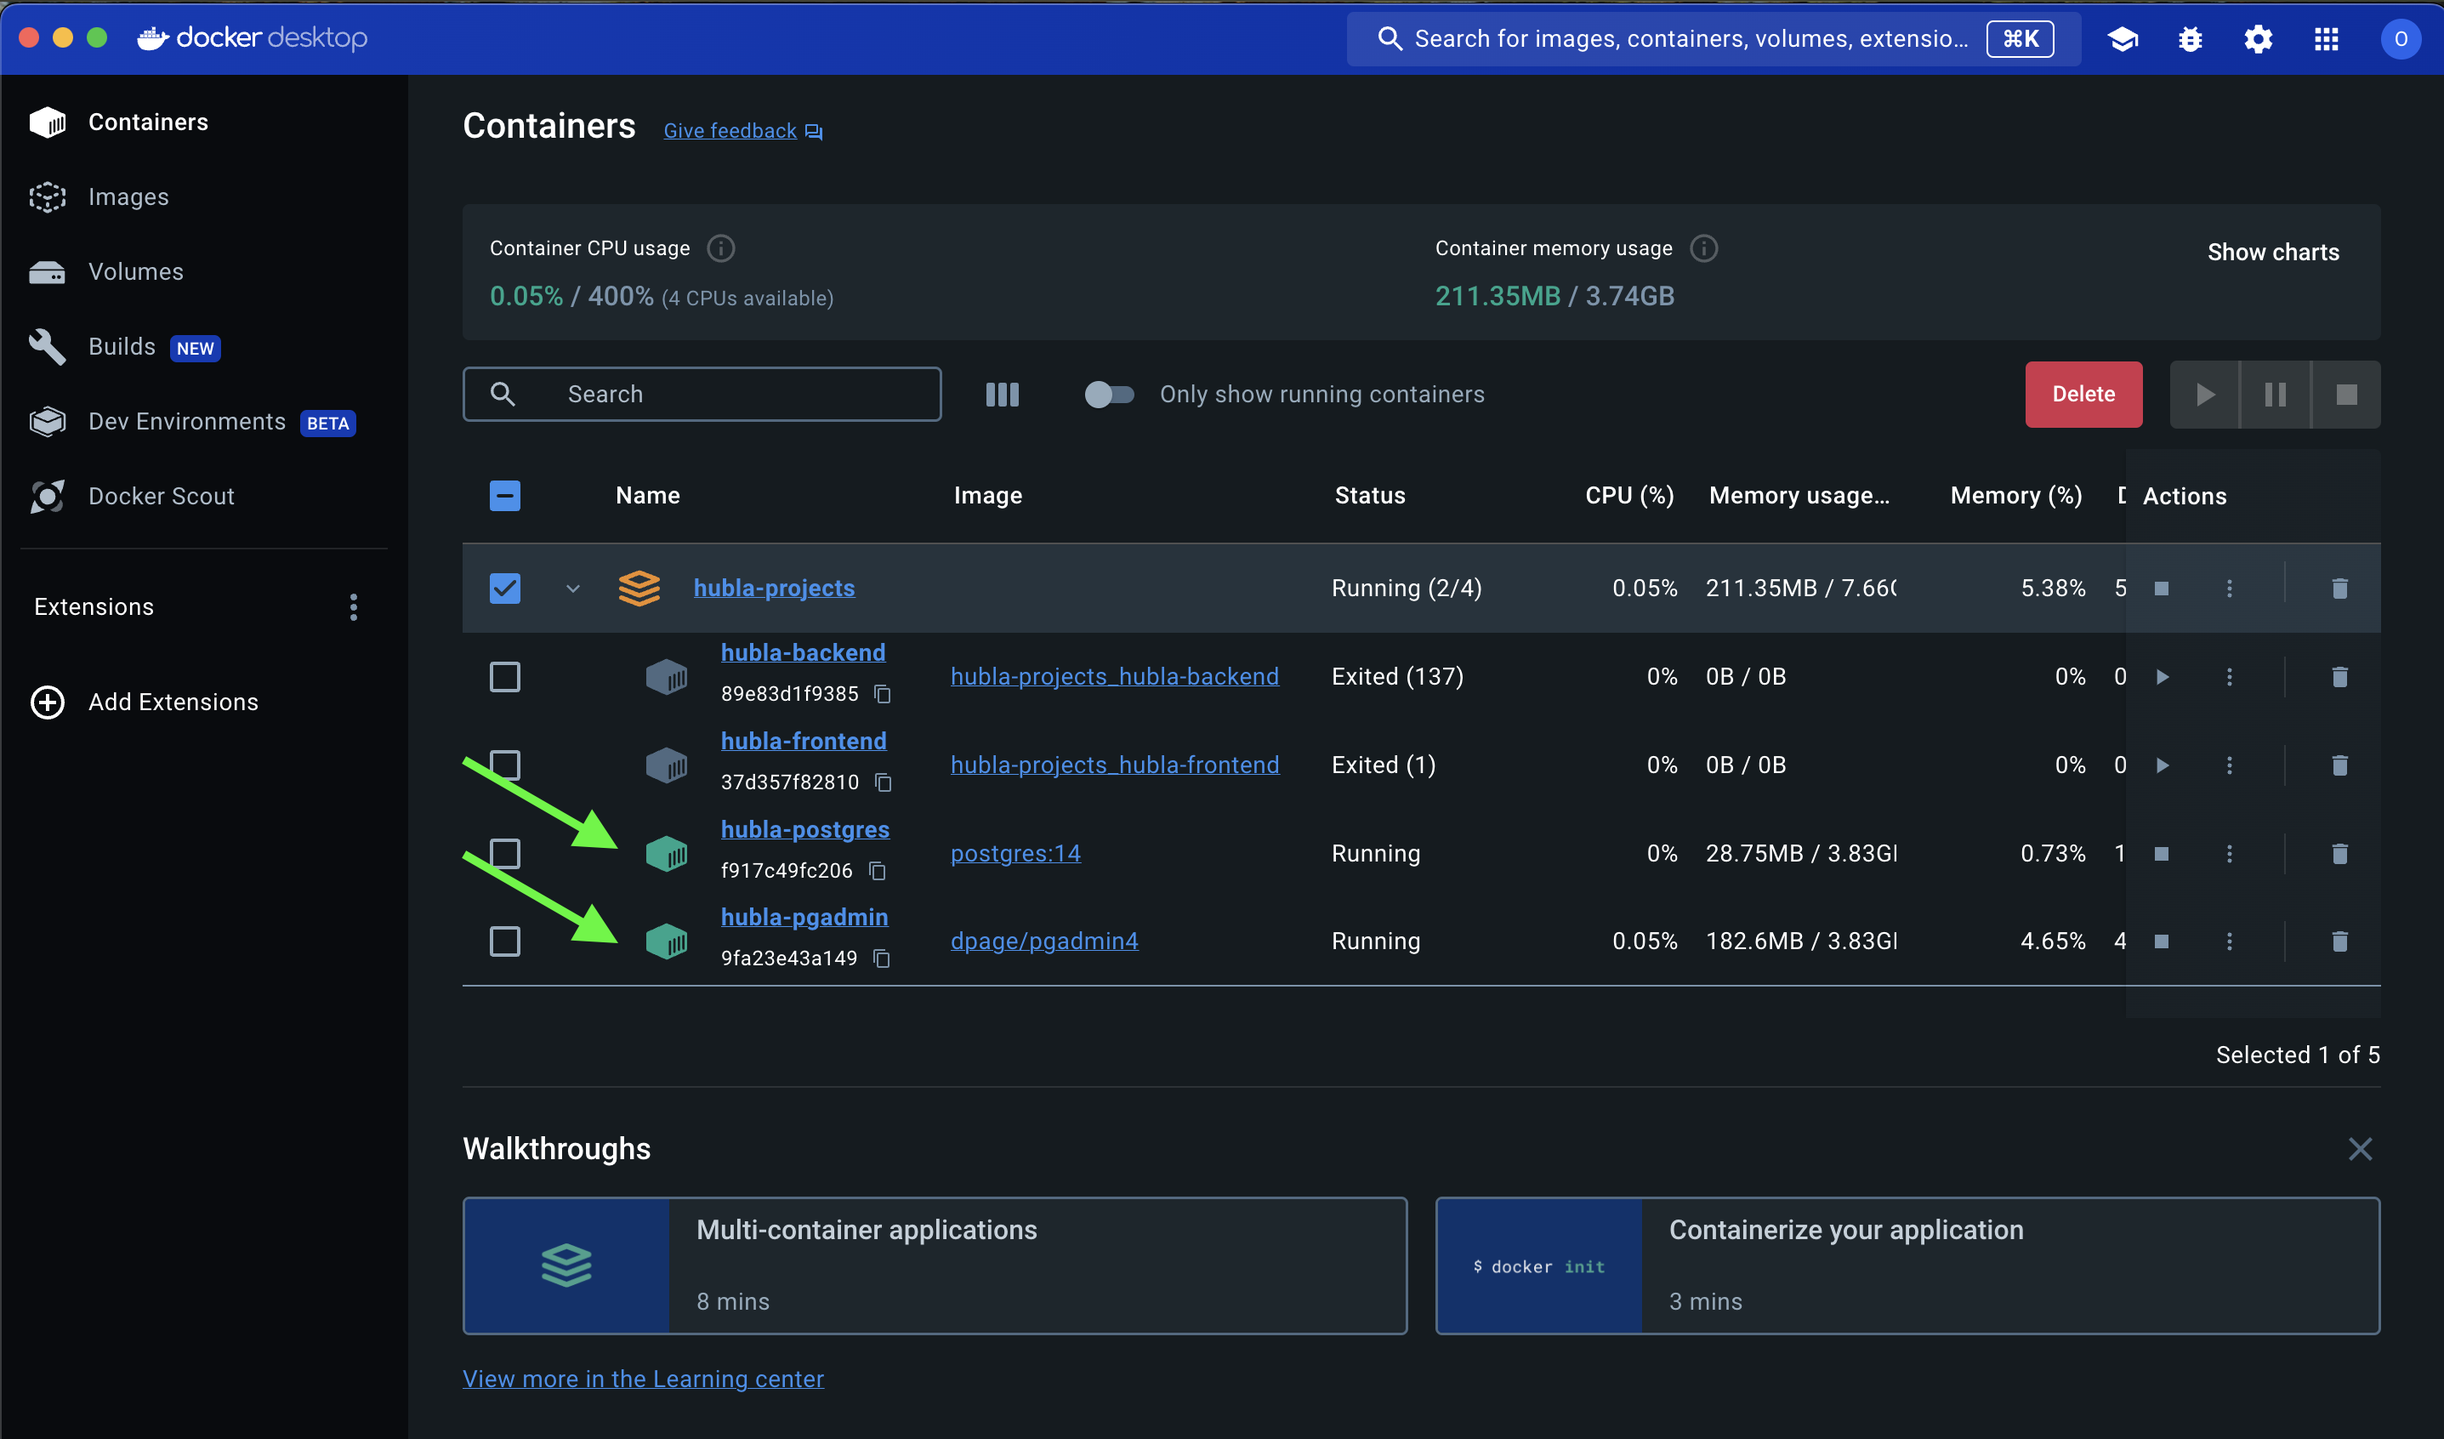
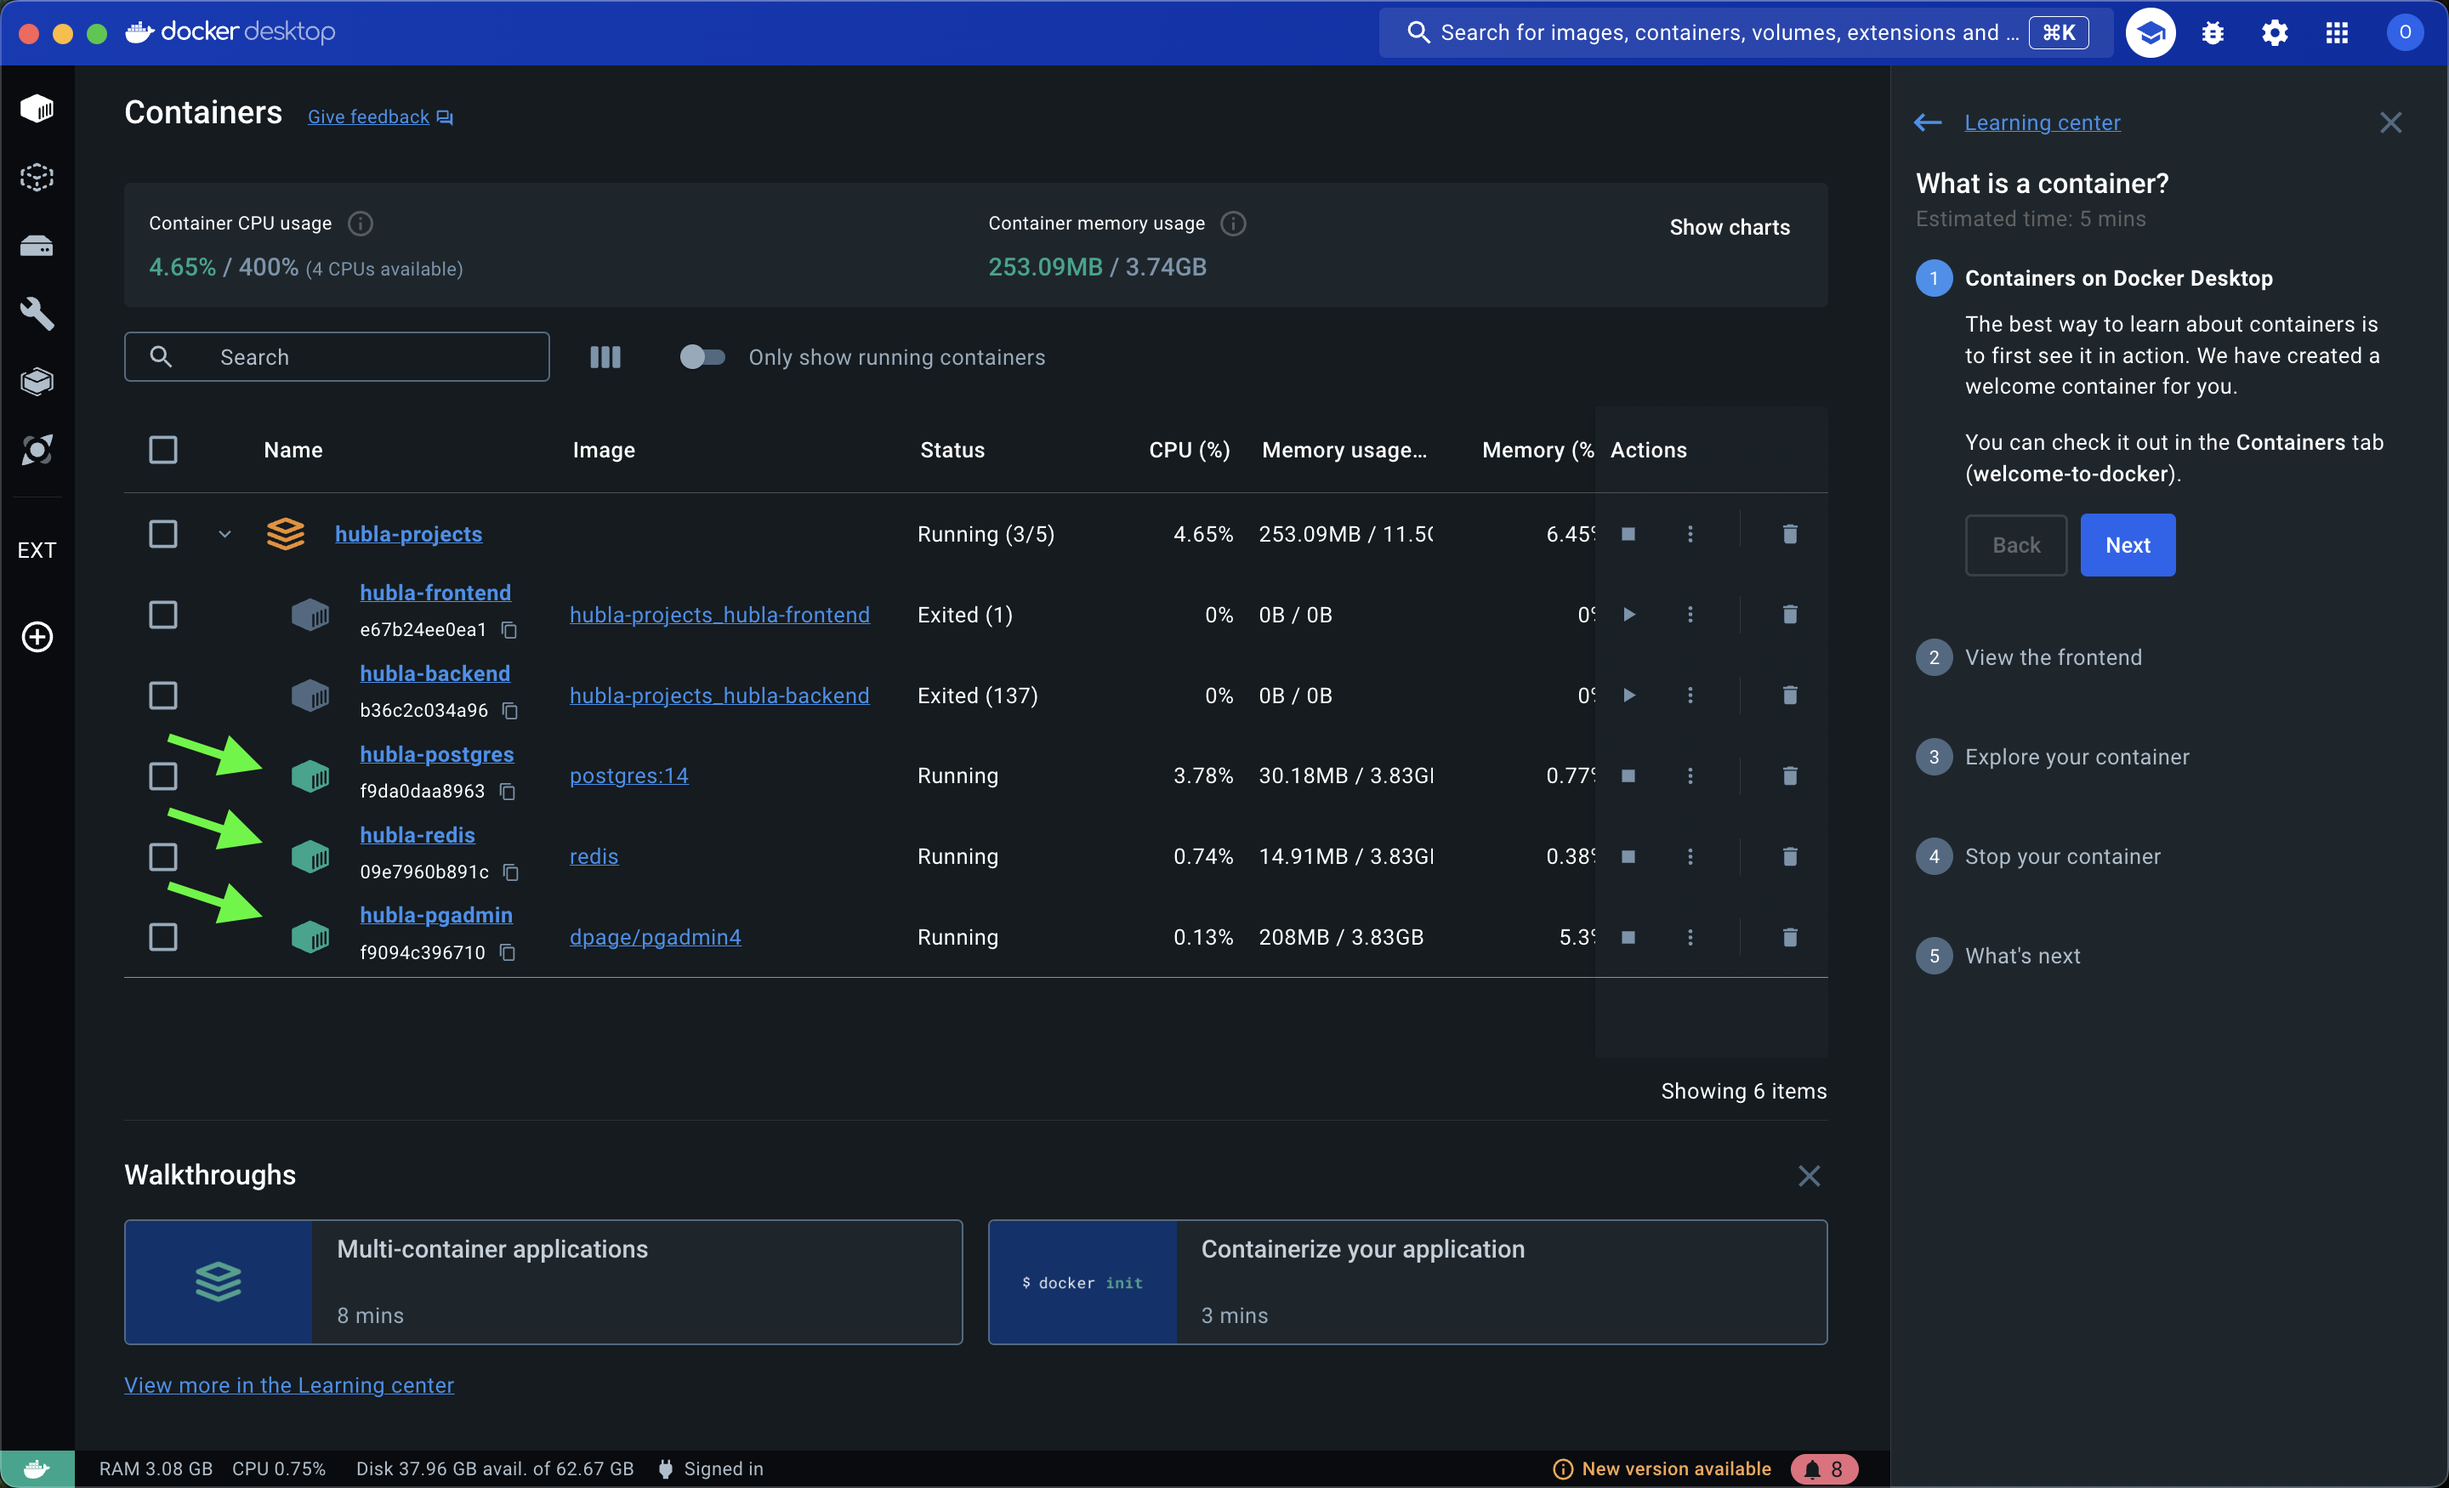
docs: update image of containers on readme

diff --git a/apps/hubla-frontend/src/auth.config.ts b/apps/hubla-frontend/src/auth.config.ts
@@ -1,63 +1,9 @@
-import type { NextAuthConfig } from 'next-auth';
+import type { NextAuthConfig } from "next-auth";
 
 export const authConfig = {
   session: {
-    strategy: 'jwt',
-    // maxAge: 24 * 60 * 60, // 1 Day
+    strategy: "jwt",
   },
   providers: [],
-  trustHost: process.env.NEXTAUTH_TRUST_HOST === 'true',
+  trustHost: process.env.NEXTAUTH_TRUST_HOST === "true",
 } satisfies NextAuthConfig;
-
-// export default {
-//   providers: [
-//     Credentials({
-//       async authorize(credentials) {
-//         const validatedFields = LoginSchema.safeParse(credentials);
-//         if (validatedFields.success) {
-//           const { email, password } = validatedFields.data;
-
-//           const user = await accessTokenAction({
-//             email,
-//             password,
-//           });
-
-//           // console.log('user:::user', user);
-
-//           if (!user) return null;
-
-//           const currentTime = Math.floor(Date.now() / 1000); // Tempo atual em segundos
-
-//           if (user) {
-//             const accessTokenExp = JSON.parse(
-//               Buffer.from(user.accessToken.split('.')[1], 'base64').toString()
-//             ).exp as number;
-
-//             cookies().set({
-//               name: ACCESS_TOKEN_KEY,
-//               value: user.accessToken,
-//               maxAge: accessTokenExp - currentTime,
-//               httpOnly: true,
-//             });
-
-//             const refreshTokenExp = JSON.parse(
-//               Buffer.from(user.refreshToken.split('.')[1], 'base64').toString()
-//             ).exp as number;
-
-//             cookies().set({
-//               name: REFRESH_TOKEN_KEY,
-//               value: user.refreshToken,
-//               maxAge: refreshTokenExp - currentTime,
-//               httpOnly: true,
-//             });
-
-//             return user as any;
-//           }
-//         }
-//         return null;
-//       },
-//     }),
-//   ],
-//   trustHost: process.env.NEXTAUTH_TRUST_HOST === 'true',
-//   // debug:  process.env.NEXTAUTH_TRUST_HOST === 'true',
-// } satisfies NextAuthConfig;

diff --git a/README.md b/README.md
@@ -70,6 +70,7 @@ Este comando utiliza o arquivo `docker-compose.dev.yml` para configurar os segui
 
 - **PostgreSQL**: Banco de dados na porta `5432`.
 - **pgAdmin**: Interface para gerenciar o PostgreSQL, acessível em `http://localhost:16543`.
+- **redis**: Interface para gerenciar cache e dados em memoria, na porta `6379`.
 
 ### 2. Script do Prisma Generate
 
